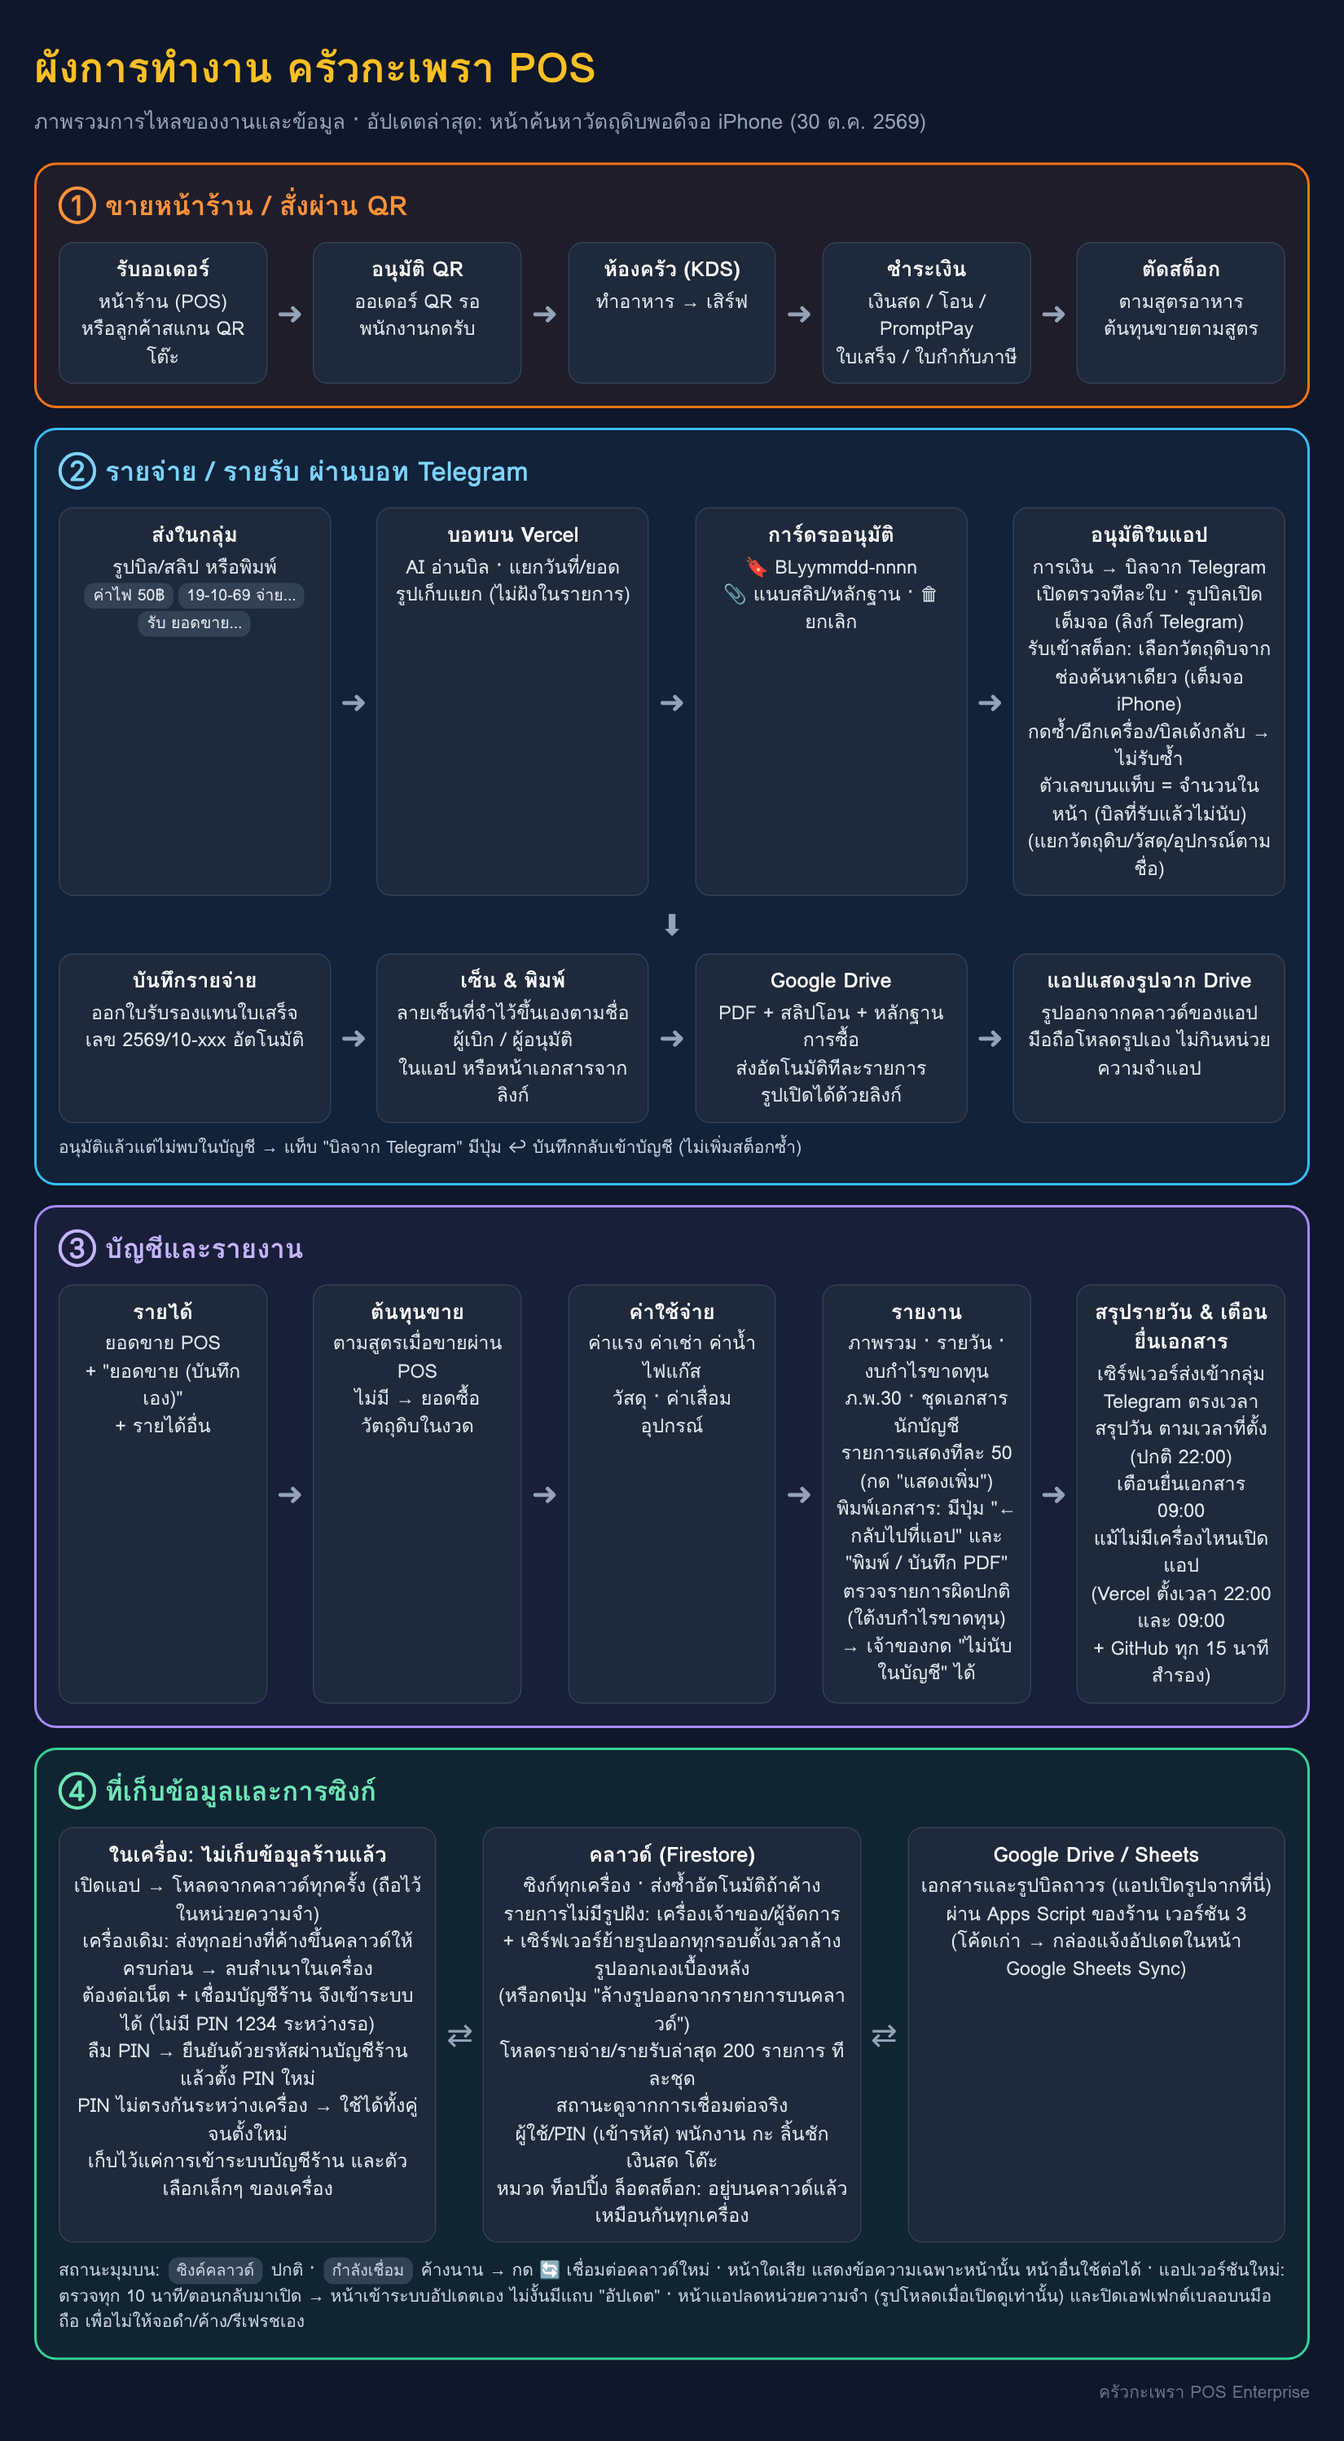
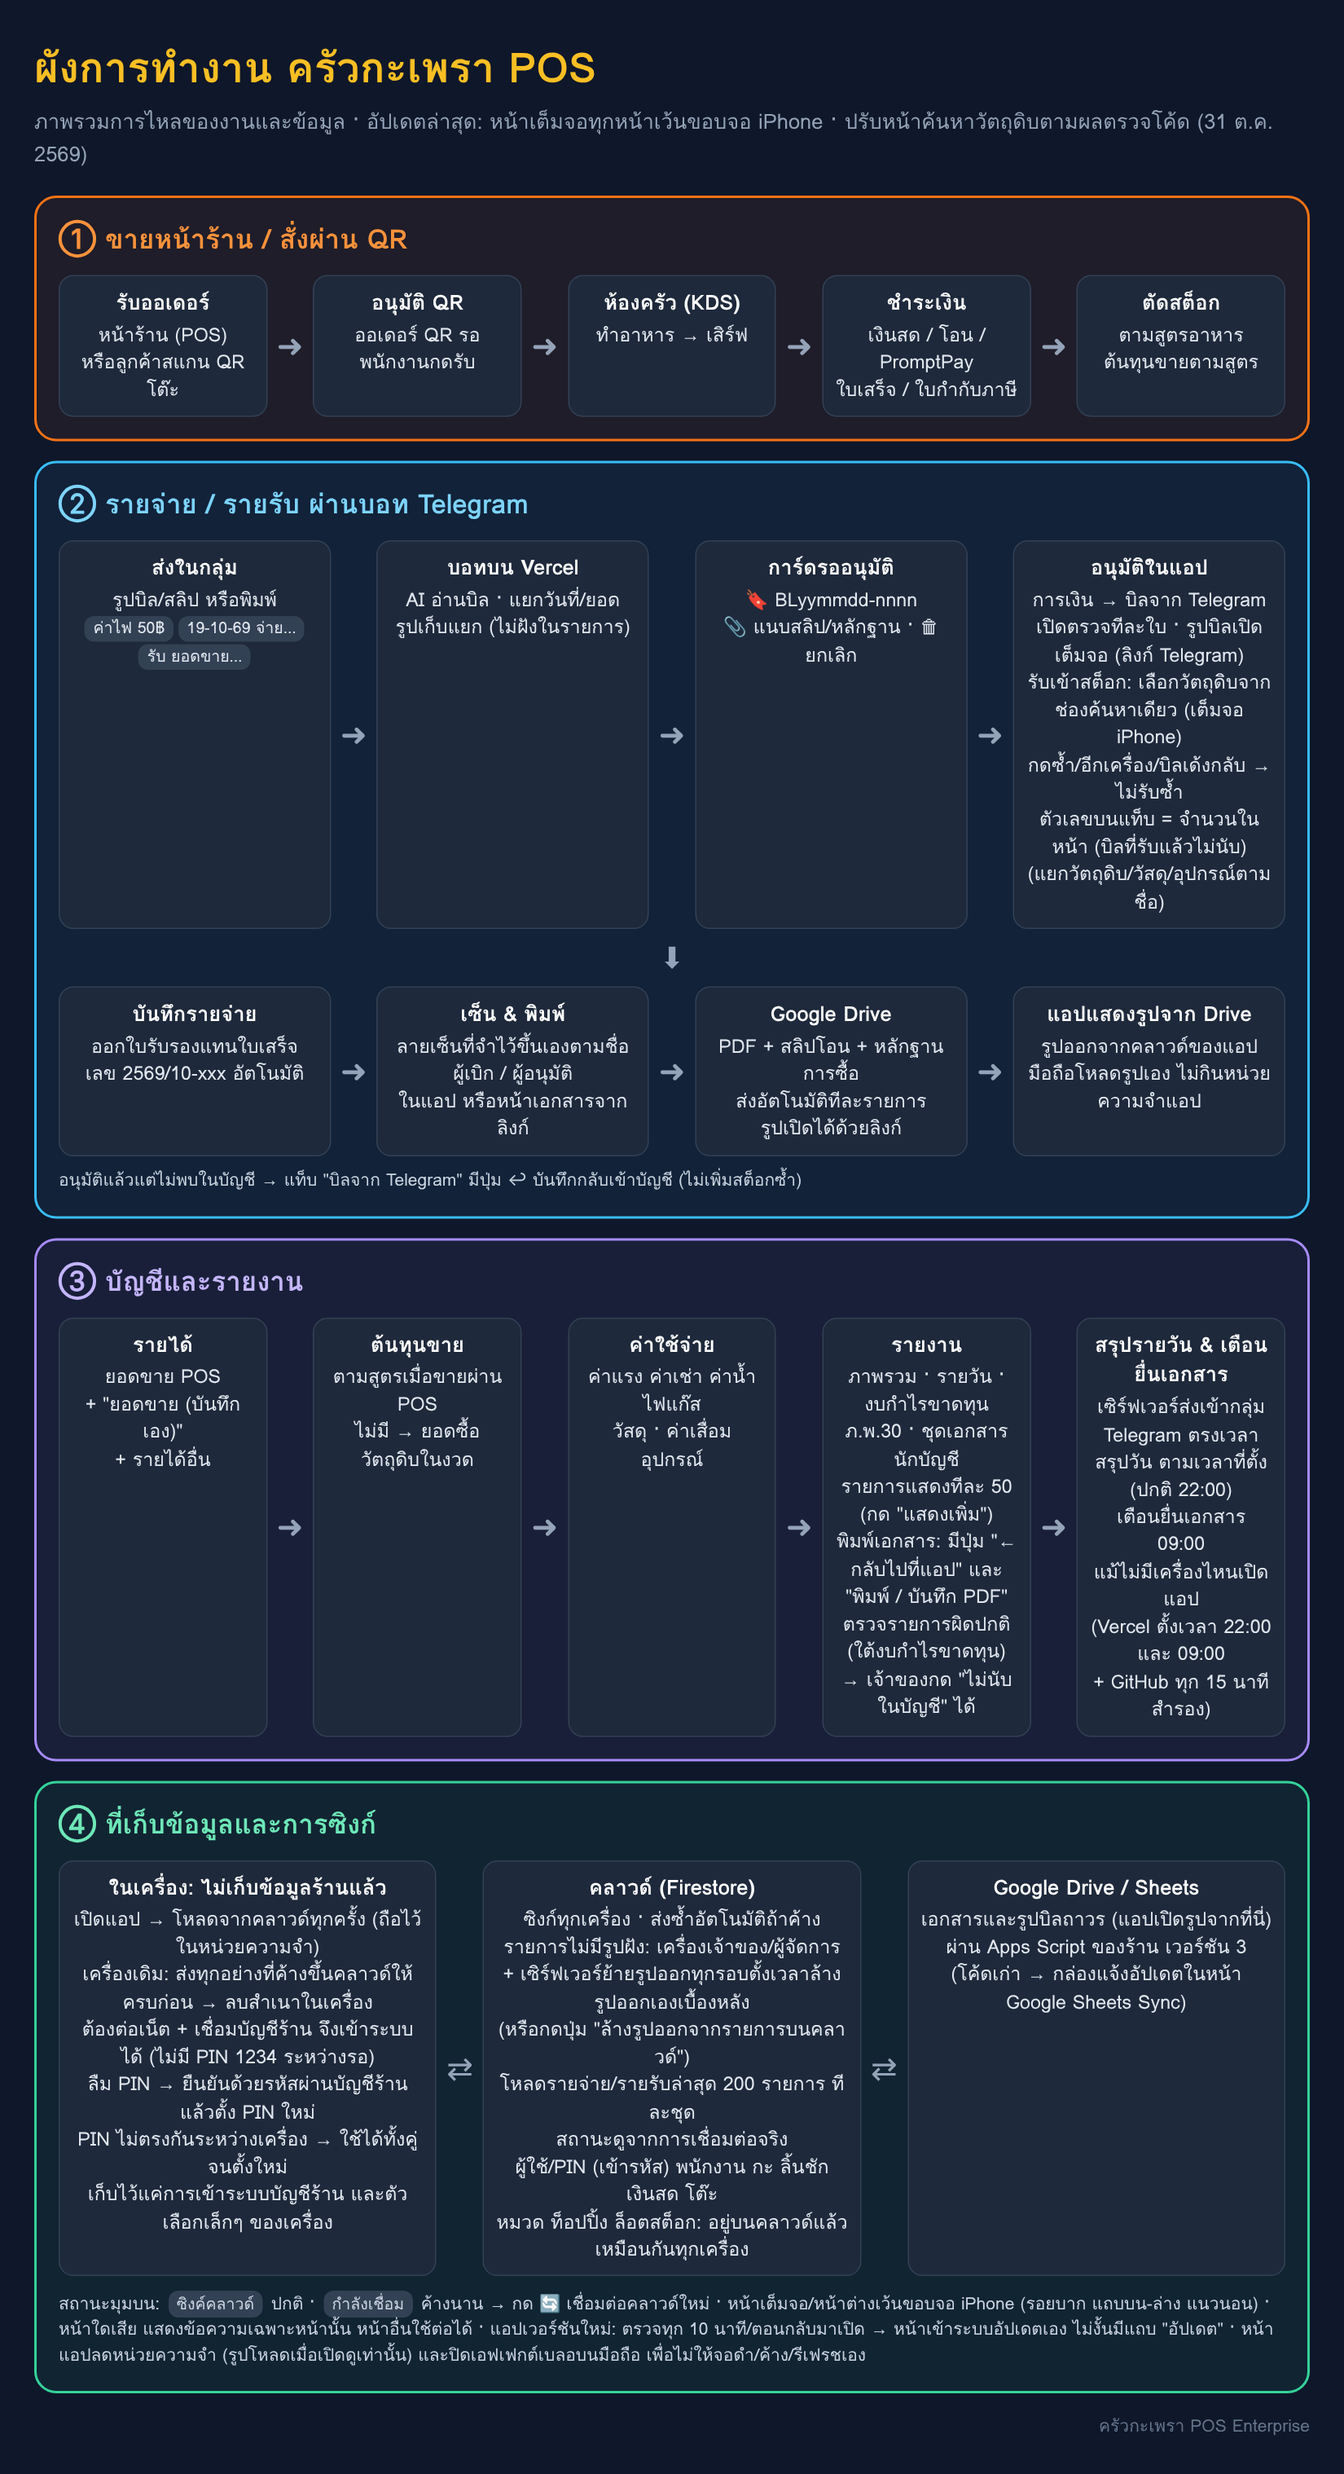
Fix the review findings: safe areas everywhere, picker focus and labels
- One safe-area padding for full-screen sheets (safe-inset utility, and
  the centred-dialog rule in index.css), all four sides so landscape
  clears the notch too: ingredient search, bill picture, POS cart sheet,
  mobile clock-in, clock-in QR, customer order sheets, side menu
- index.css: the font-num comment is back above its rule
- The picker works out 'touch screen' once, not on every keystroke
- The picker is aria-modal, its search box has a label, and on a phone
  (keyboard closed) the dialog itself takes focus, so screen readers
  start inside it
- Diagram date in Bangkok time

Claude-Session: https://claude.ai/code/session_01Gq3UvYW4wv3hsVCXoh5wxy

diff --git a/docs/workflow/flow.html b/docs/workflow/flow.html
@@ -17,7 +17,7 @@ h1{margin:0 0 4px;font-size:34px;color:#fbbf24}.sub{color:#94a3b8;font-size:17px
 .foot{color:#64748b;font-size:14px;margin-top:6px;text-align:right}
 </style></head><body>
 <h1>ผังการทำงาน ครัวกะเพรา POS</h1>
-<div class="sub">ภาพรวมการไหลของงานและข้อมูล · อัปเดตล่าสุด: หน้าค้นหาวัตถุดิบพอดีจอ iPhone (30 ต.ค. 2569)</div>
+<div class="sub">ภาพรวมการไหลของงานและข้อมูล · อัปเดตล่าสุด: หน้าเต็มจอทุกหน้าเว้นขอบจอ iPhone · ปรับหน้าค้นหาวัตถุดิบตามผลตรวจโค้ด (31 ต.ค. 2569)</div>
 
 <div class="lane pos"><h2>① ขายหน้าร้าน / สั่งผ่าน QR</h2>
 <div class="row">
@@ -60,7 +60,7 @@ h1{margin:0 0 4px;font-size:34px;color:#fbbf24}.sub{color:#94a3b8;font-size:17px
 <div class="box"><b>คลาวด์ (Firestore)</b>ซิงก์ทุกเครื่อง · ส่งซ้ำอัตโนมัติถ้าค้าง<br>รายการไม่มีรูปฝัง: เครื่องเจ้าของ/ผู้จัดการ<br>+ เซิร์ฟเวอร์ย้ายรูปออกทุกรอบตั้งเวลาล้างรูปออกเองเบื้องหลัง<br>(หรือกดปุ่ม "ล้างรูปออกจากรายการบนคลาวด์")<br>โหลดรายจ่าย/รายรับล่าสุด 200 รายการ ทีละชุด<br>สถานะดูจากการเชื่อมต่อจริง<br>ผู้ใช้/PIN (เข้ารหัส) พนักงาน กะ ลิ้นชักเงินสด โต๊ะ<br>หมวด ท็อปปิ้ง ล็อตสต็อก: อยู่บนคลาวด์แล้ว เหมือนกันทุกเครื่อง</div><div class="ar">⇄</div>
 <div class="box"><b>Google Drive / Sheets</b>เอกสารและรูปบิลถาวร (แอปเปิดรูปจากที่นี่)<br>ผ่าน Apps Script ของร้าน เวอร์ชัน 3<br>(โค้ดเก่า → กล่องแจ้งอัปเดตในหน้า Google Sheets Sync)</div>
 </div>
-<div class="note">สถานะมุมบน: <span class="tag">ซิงค์คลาวด์</span> ปกติ · <span class="tag">กำลังเชื่อม</span> ค้างนาน → กด 🔄 เชื่อมต่อคลาวด์ใหม่ · หน้าใดเสีย แสดงข้อความเฉพาะหน้านั้น หน้าอื่นใช้ต่อได้ · แอปเวอร์ชันใหม่: ตรวจทุก 10 นาที/ตอนกลับมาเปิด → หน้าเข้าระบบอัปเดตเอง ไม่งั้นมีแถบ "อัปเดต" · หน้าแอปลดหน่วยความจำ (รูปโหลดเมื่อเปิดดูเท่านั้น) และปิดเอฟเฟกต์เบลอบนมือถือ เพื่อไม่ให้จอดำ/ค้าง/รีเฟรชเอง</div>
+<div class="note">สถานะมุมบน: <span class="tag">ซิงค์คลาวด์</span> ปกติ · <span class="tag">กำลังเชื่อม</span> ค้างนาน → กด 🔄 เชื่อมต่อคลาวด์ใหม่ · หน้าเต็มจอ/หน้าต่างเว้นขอบจอ iPhone (รอยบาก แถบบน-ล่าง แนวนอน) · หน้าใดเสีย แสดงข้อความเฉพาะหน้านั้น หน้าอื่นใช้ต่อได้ · แอปเวอร์ชันใหม่: ตรวจทุก 10 นาที/ตอนกลับมาเปิด → หน้าเข้าระบบอัปเดตเอง ไม่งั้นมีแถบ "อัปเดต" · หน้าแอปลดหน่วยความจำ (รูปโหลดเมื่อเปิดดูเท่านั้น) และปิดเอฟเฟกต์เบลอบนมือถือ เพื่อไม่ให้จอดำ/ค้าง/รีเฟรชเอง</div>
 </div>
 <div class="foot">ครัวกะเพรา POS Enterprise</div>
 </body></html>

diff --git a/src/components/telegram/TelegramInboxPanel.tsx b/src/components/telegram/TelegramInboxPanel.tsx
@@ -40,6 +40,9 @@ const billItems = (p: PendingReceipt): BillItem[] => {
 
 const APPROVER_ROLES = ['admin', 'manager'];
 
+/** A phone or tablet (no mouse): worked out once */
+const TOUCH_SCREEN = typeof window !== 'undefined' && !!window.matchMedia?.('(hover: none)').matches;
+
 /** Most matches listed at once in the ingredient picker (the shop can have hundreds) */
 const PICKER_LIMIT = 60;
 
@@ -55,6 +58,12 @@ const IngredientPicker: React.FC<{
   onClose: () => void;
 }> = ({ ingredients, label, onPick, onClose }) => {
   const [q, setQ] = useState('');
+  // On a phone the keyboard stays closed, so the dialog itself takes the focus (screen readers
+  // start inside it, not on the page behind)
+  const dialogRef = useRef<HTMLDivElement>(null);
+  useEffect(() => {
+    if (TOUCH_SCREEN) dialogRef.current?.focus();
+  }, []);
   const matches = useMemo(() => {
     const words = q.trim().toLowerCase().split(/\s+/).filter(Boolean);
     const typed = q.trim().toLowerCase();
@@ -68,16 +77,20 @@ const IngredientPicker: React.FC<{
     return near ? [near, ...list.filter(i => i.id !== near.id)] : list;
   }, [q, ingredients, label]);
   return (
-    // Below the iPhone's status bar and above its home bar (the app is drawn edge to edge)
+    // Clear of the iPhone's notch, status bar and home bar (the app is drawn edge to edge)
     <div
-      className="fixed inset-0 z-[90] bg-slate-950 flex flex-col text-xs pt-[env(safe-area-inset-top)] pb-[env(safe-area-inset-bottom)]"
+      ref={dialogRef}
+      tabIndex={-1}
+      className="fixed inset-0 z-[90] bg-slate-950 flex flex-col text-xs safe-inset outline-none"
       role="dialog"
+      aria-modal="true"
       aria-label="เลือกวัตถุดิบ"
     >
       <div className="p-3 border-b border-slate-800 flex items-center gap-2">
         <input
           // The keyboard on a phone only when the person taps the box (opening with it covered half the list)
-          autoFocus={!window.matchMedia?.('(hover: none)').matches}
+          autoFocus={!TOUCH_SCREEN}
+          aria-label="ค้นหาวัตถุดิบ"
           value={q}
           onChange={e => setQ(e.target.value)}
           placeholder="ค้นหาวัตถุดิบ..."
@@ -967,7 +980,7 @@ export const TelegramInboxPanel: React.FC<{ incomeLabels: Record<IncomeCategory,
         })()}
 
       {viewing && shown[viewing] && (
-        <div className="fixed inset-0 z-[90] bg-black flex flex-col pt-[env(safe-area-inset-top)] pb-[env(safe-area-inset-bottom)]" role="dialog" aria-label="รูปบิล">
+        <div className="fixed inset-0 z-[90] bg-black flex flex-col safe-inset" role="dialog" aria-modal="true" aria-label="รูปบิล">
           <div className="p-2 flex justify-between items-center gap-2 text-xs">
             <a href={shown[viewing]} target="_blank" rel="noopener noreferrer" className="h-10 px-3 rounded-lg border border-slate-700 text-slate-300 flex items-center">
               เปิดรูปเต็ม

diff --git a/src/index.css b/src/index.css
@@ -1,13 +1,25 @@
 @import "tailwindcss";
 @import "./styles/print-receipt.css";
 
-/* Large prices / totals on the POS screens */
 /* The app's own dark colour behind everything (white showed below sheets and where the keyboard was) */
 html,
 body {
   background-color: #0d0704;
 }
 
+/*
+ * Full-screen sheets keep clear of the iPhone's notch, status bar and home bar (the app is drawn
+ * edge to edge: viewport-fit=cover), in portrait and landscape
+ */
+@utility safe-inset {
+  padding: env(safe-area-inset-top) env(safe-area-inset-right) env(safe-area-inset-bottom) env(safe-area-inset-left);
+}
+/* The same, with at least 1rem all round (sheets that had p-4) */
+@utility safe-inset-4 {
+  padding: max(1rem, env(safe-area-inset-top)) max(1rem, env(safe-area-inset-right)) max(1rem, env(safe-area-inset-bottom)) max(1rem, env(safe-area-inset-left));
+}
+
+/* Large prices / totals on the POS screens */
 @utility font-num {
   font-family: 'Kanit', system-ui, -apple-system, 'Segoe UI', sans-serif;
   font-variant-numeric: tabular-nums;
@@ -30,6 +42,11 @@ body {
   overflow-y: auto;
   overscroll-behavior: contain;
   align-items: flex-start;
+  /* Clear of the notch, status bar and home bar (at least the dialogs' usual spacing) */
+  padding-top: max(1rem, env(safe-area-inset-top));
+  padding-bottom: max(1rem, env(safe-area-inset-bottom));
+  padding-left: max(0.5rem, env(safe-area-inset-left));
+  padding-right: max(0.5rem, env(safe-area-inset-right));
 }
 .fixed.inset-0.flex.items-center.justify-center:not(.items-end) > * {
   margin-block: auto;

diff --git a/src/components/attendance/AttendanceSettingsPanel.tsx b/src/components/attendance/AttendanceSettingsPanel.tsx
@@ -44,8 +44,8 @@ export const ShopClockQR: React.FC<{ onClose: () => void }> = ({ onClose }) => {
   };
 
   return (
-    <div className="fixed inset-0 z-[80] bg-slate-950 flex flex-col items-center justify-center p-4 text-slate-100">
-      <button type="button" onClick={onClose} aria-label="ปิด" className="absolute top-4 right-4 w-11 h-11 rounded-xl border border-slate-700 flex items-center justify-center">
+    <div className="fixed inset-0 z-[80] bg-slate-950 flex flex-col items-center justify-center safe-inset-4 text-slate-100">
+      <button type="button" onClick={onClose} aria-label="ปิด" className="absolute top-[max(1rem,env(safe-area-inset-top))] right-[max(1rem,env(safe-area-inset-right))] w-11 h-11 rounded-xl border border-slate-700 flex items-center justify-center">
         <X className="w-5 h-5" />
       </button>
       <h2 className="text-xl font-bold mb-1">สแกนเพื่อลงเวลาเข้า-ออกงาน</h2>

diff --git a/src/components/customer/CustomerOrderPage.tsx b/src/components/customer/CustomerOrderPage.tsx
@@ -412,7 +412,7 @@ export const CustomerOrderPage: React.FC<{ table: string; branchId: string }> = 
 
       {/* Options sheet */}
       {draft && (
-        <div className="fixed inset-0 z-40 bg-black/70 flex flex-col justify-end" onClick={() => setDraft(null)}>
+        <div className="fixed inset-0 z-40 bg-black/70 flex flex-col justify-end safe-inset" onClick={() => setDraft(null)}>
           <div
             role="dialog"
             aria-modal="true"
@@ -523,7 +523,7 @@ export const CustomerOrderPage: React.FC<{ table: string; branchId: string }> = 
 
       {/* Cart sheet */}
       {isCartOpen && (
-        <div className="fixed inset-0 z-40 bg-black/70 flex flex-col justify-end" onClick={() => setIsCartOpen(false)}>
+        <div className="fixed inset-0 z-40 bg-black/70 flex flex-col justify-end safe-inset" onClick={() => setIsCartOpen(false)}>
           <div
             role="dialog"
             aria-modal="true"

diff --git a/src/components/SidebarDrawer.tsx b/src/components/SidebarDrawer.tsx
@@ -231,7 +231,7 @@ export const SidebarDrawer: React.FC = () => {
       />
 
       {/* Side Drawer Drawer Box */}
-      <div className="relative w-80 max-w-[85vw] bg-[#0c1322] border-r border-slate-800/80 text-slate-100 flex flex-col h-full shadow-2xl z-10 animate-in slide-in-from-left duration-200">
+      <div className="relative w-80 max-w-[85vw] bg-[#0c1322] border-r border-slate-800/80 text-slate-100 flex flex-col h-full shadow-2xl z-10 pt-[env(safe-area-inset-top)] pb-[env(safe-area-inset-bottom)] pl-[env(safe-area-inset-left)] animate-in slide-in-from-left duration-200">
         
         {/* Drawer Header */}
         <div className="flex items-center justify-between p-4 border-b border-slate-800/80 bg-slate-900/60">

diff --git a/src/components/attendance/MobileClockPage.tsx b/src/components/attendance/MobileClockPage.tsx
@@ -135,7 +135,7 @@ export const MobileClockPage: React.FC<{ code: string; openedAt: number; onClose
   };
 
   return (
-    <div className="fixed inset-0 z-[90] bg-[#0d0704] text-stone-100 overflow-y-auto">
+    <div className="fixed inset-0 z-[90] bg-[#0d0704] text-stone-100 overflow-y-auto safe-inset">
       <div className="max-w-md mx-auto p-4 space-y-4">
         <div className="flex items-center justify-between">
           <h1 className="text-lg font-bold">ลงเวลาด้วยมือถือ</h1>

diff --git a/src/components/pos/POSView.tsx b/src/components/pos/POSView.tsx
@@ -588,7 +588,7 @@ export const POSView: React.FC = () => {
       </div>
 
       {isCartSheetOpen && (
-        <div className="md:hidden fixed inset-0 z-40 bg-[#120a06] flex flex-col" role="dialog" aria-modal="true" aria-label="ตะกร้า">
+        <div className="md:hidden fixed inset-0 z-40 bg-[#120a06] flex flex-col safe-inset" role="dialog" aria-modal="true" aria-label="ตะกร้า">
           {cartPanel}
         </div>
       )}
